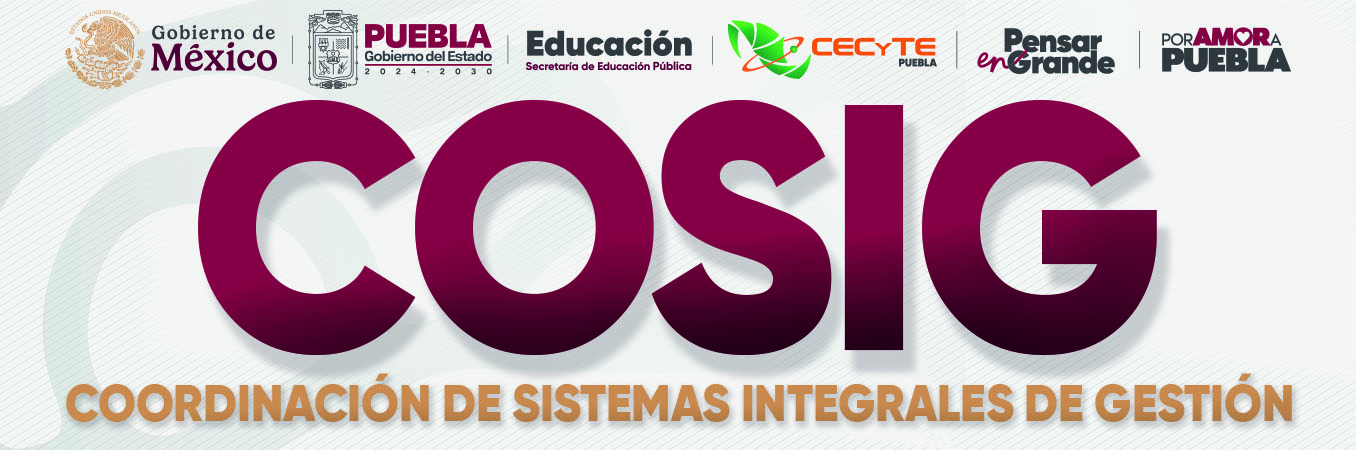
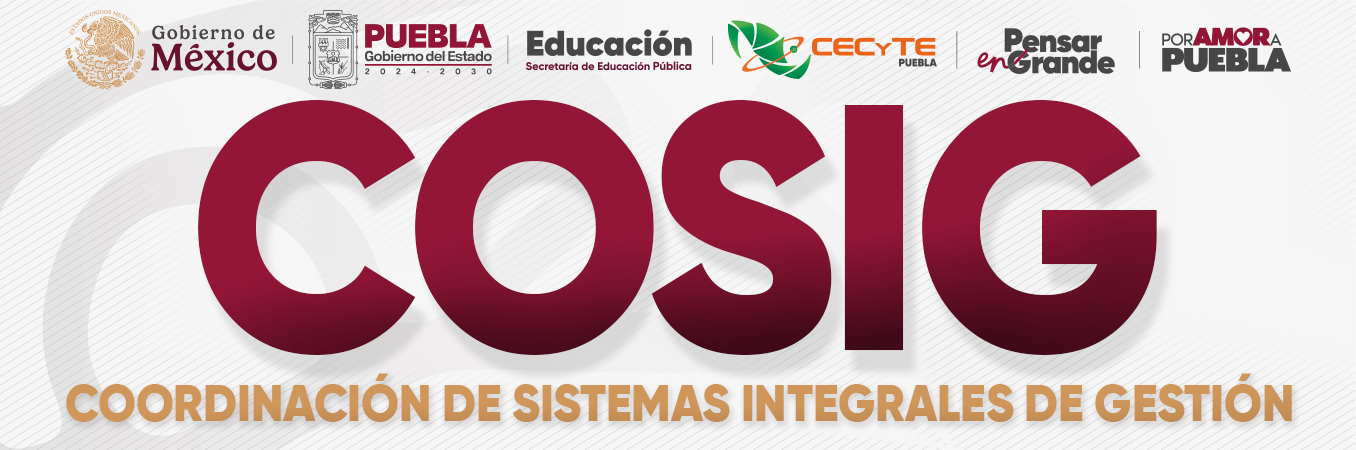
Detalles de estilo
Se modifico el alto de un elemento y se eliminaron los elementos .background-box con sus estilos relacionados

diff --git a/public/css/styles.css b/public/css/styles.css
@@ -33,7 +33,7 @@ body {
     align-items: flex-start;
     right: 10vh;
     width: 100%;
-    min-height: 15vh;
+    min-height: 85px;
     position: relative; /* Para que el fondo solo esté en esta parte */
 
 }
@@ -42,11 +42,6 @@ body {
 
 /* MEDIA QUERIES */
 @media (max-width: 768px) {
-    .background-box {
-        height: 30vh; /* Reducir la altura en dispositivos pequeños */
-        z-index: -1;
-    }
-
     .inicio-container {
         flex-direction: column;
         align-items: center;
@@ -73,14 +68,6 @@ body {
     #ocelote-icon {
         width: 60px;
         height: auto;
-    }
-    
-}
-@media (max-width: 480px) {
-    .background-box {
-        margin-top: 30%;
-        height: 15vh; /* Reducir la altura en dispositivos pequeños */
-        z-index: -1;
     }
     
 }

diff --git a/public/css/Styles_Transparencia.css b/public/css/Styles_Transparencia.css
@@ -1,8 +1,3 @@
-/*––– Layout general –––––––––––––––––––––––––*/
-.no-background .background-box {
-  display: none !important;
-}
-
 .top-strip {
   background: #d5d1c5;
   height: 40px

diff --git a/public/css/styles_directorio.css b/public/css/styles_directorio.css
@@ -2,9 +2,6 @@
     --color-rojo: #660000;
 }
 
-.no-background .background-box {
-    display: none !important;
-}
 body {
     background-color: white !important; /* Fondo blanco para evitar herencia */
 }

diff --git a/public/css/styles_admision.css b/public/css/styles_admision.css
@@ -1,7 +1,3 @@
-body.no-background .background-box {
-    display: none !important;
-}
-
 .admision-container {
     width: 90%;
     max-width: 1200px;

diff --git a/public/css/styles_carreras.css b/public/css/styles_carreras.css
@@ -1,6 +1,3 @@
-.no-background .background-box {
-  display: none !important;
-}
 html, body {
     font-family: Arial, sans-serif;
     margin: 0;

diff --git a/public/css/styles_convenios.css b/public/css/styles_convenios.css
@@ -1,6 +1,3 @@
-.no-background .background-box {
-    display: none !important;
-}
 /* Estilos generales */
 body {
   margin: 0;

diff --git a/resources/views/layouts/app.blade.php b/resources/views/layouts/app.blade.php
@@ -36,8 +36,6 @@
     @include('components.chatbot')
     @include('components.barra_redes')
     <div id="containerParaFiltro" style="overflow-x: hidden">
-        <div class="background-box"></div>
-        <div class="background-box d-none d-sm-block"></div>
     
         <!-- Componentes de la página -->
         @include('components.navbar')
@@ -45,12 +43,12 @@
         <!-- Contenido principal con ajuste para barra de navegación fija -->
         <main class="main-content">
             <div class="row inicio-container">
-            <section>
-                <div>
-                    @include('components.formulario')
-                </div>
-            </section>
-        </div>
+                <section>
+                    <div>
+                        @include('components.formulario')
+                    </div>
+                </section>
+            </div>
             @yield('content')
         </main>
     

diff --git a/resources/views/cosig.blade.php b/resources/views/cosig.blade.php
@@ -5,7 +5,7 @@
 
 @section('content')
     <div class="imgContainer">
-        <img class="img-fluid" src="{{ asset('/imagenes/COSIG/BannerWebCOSIG.jpg') }}" alt="logo COSIG">
+        <img class="img-fluid" src="{{ asset('/imagenes/COSIG/BannerWebCOSIG.jpg') }}" alt="logo COSIG" style="width: 100%">
     </div>
     <div class="imgContainer">
         <img class="img-fluid" src="{{ asset('imagenes/COSIG/normativa.png') }}" alt="Norma Mexicana NMX-R-025-SCFI-2015">
